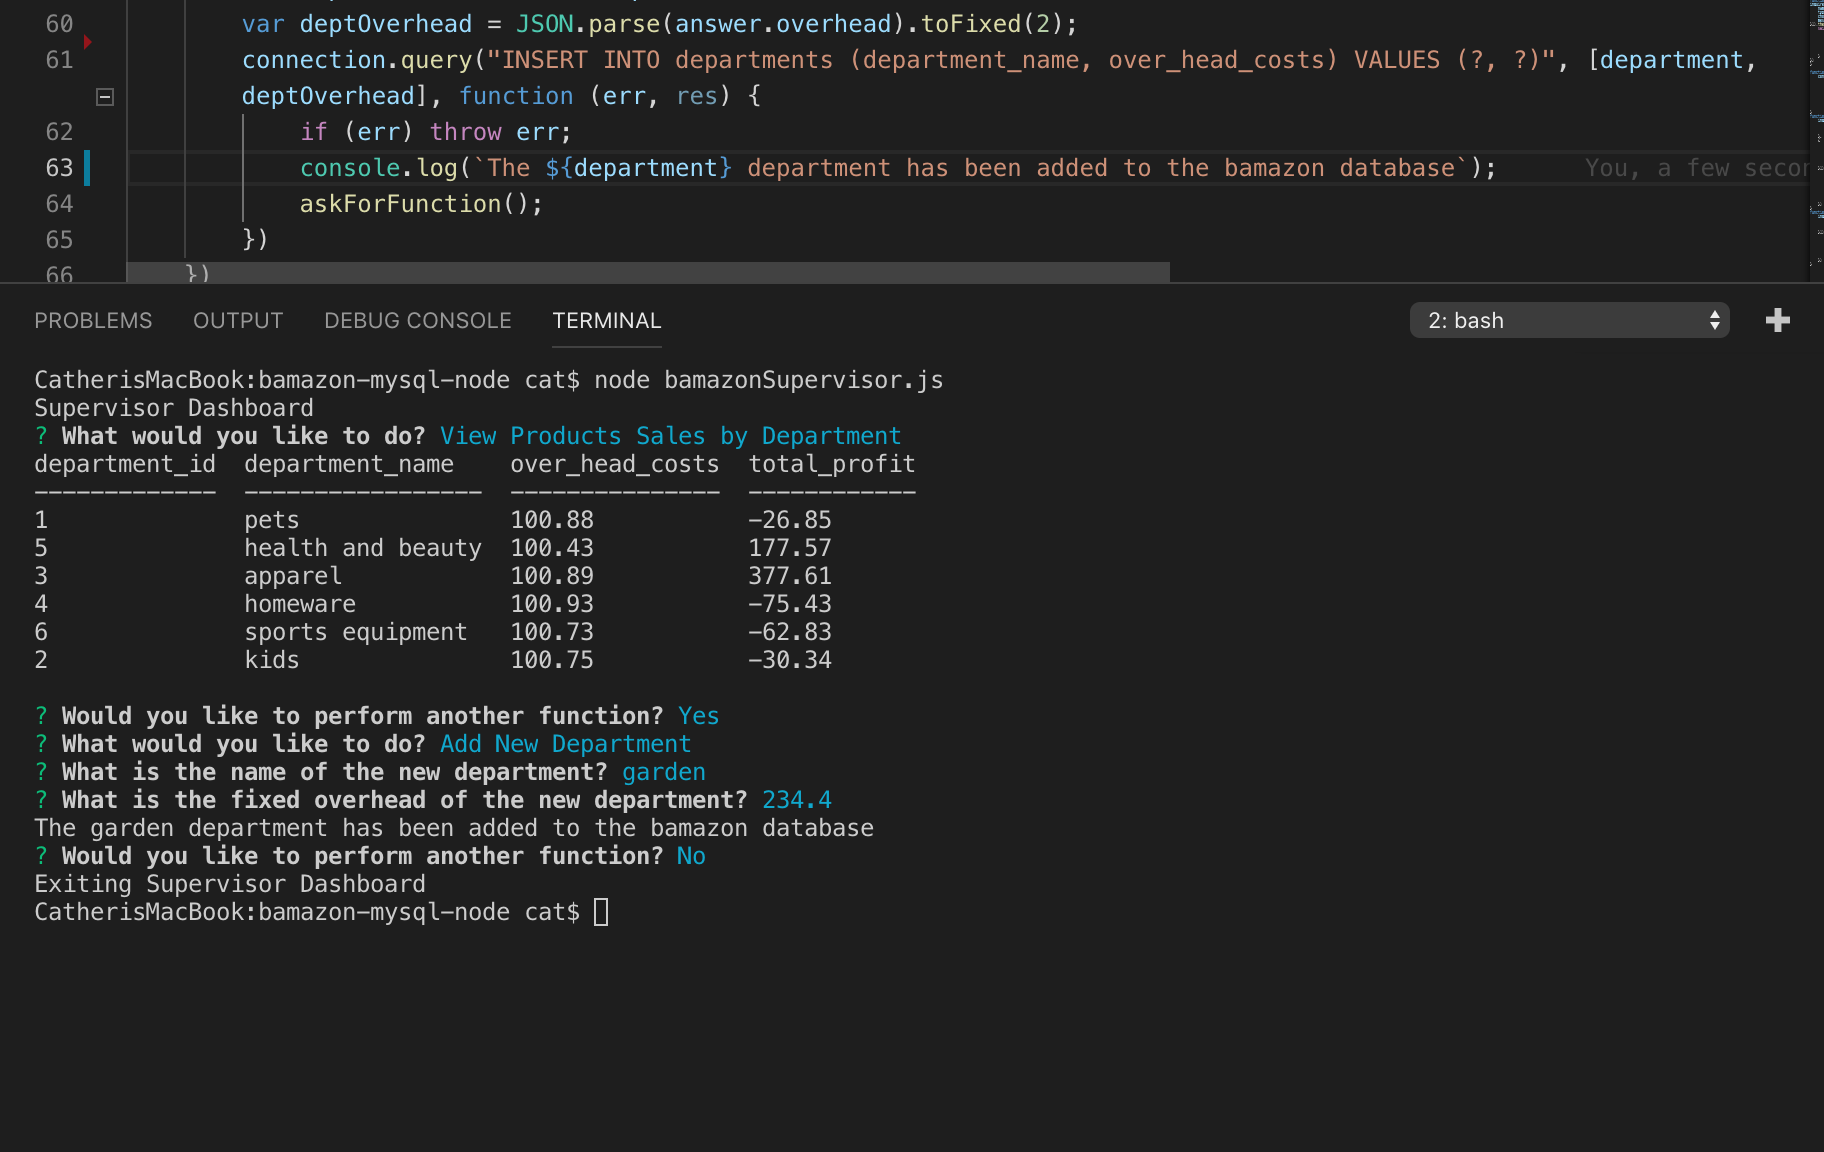
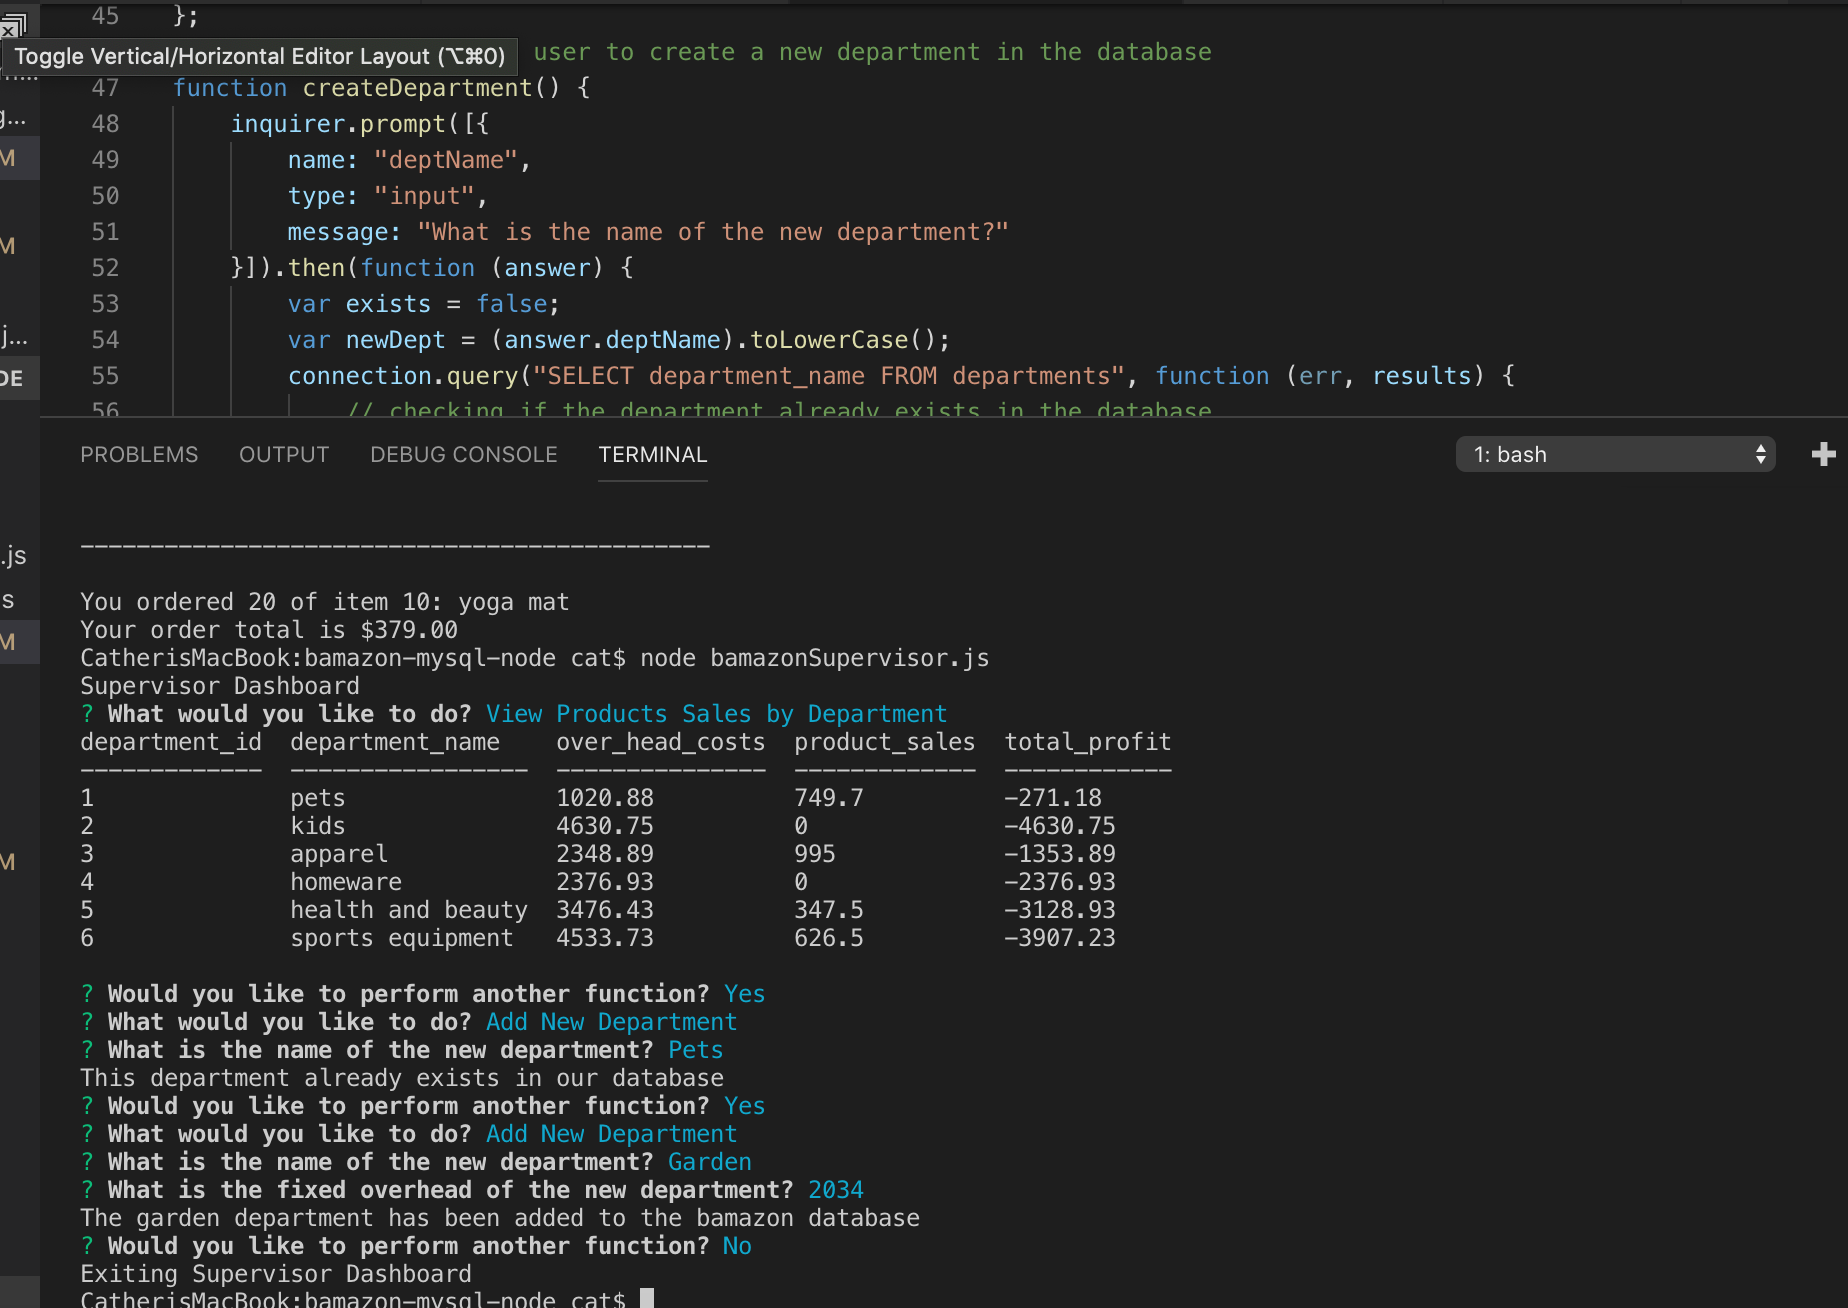
small edits from testing

Changed region(s): [[0.0, 0.0, 0.8125, 1.0], [0.75, 0.25, 1.0, 0.375], [0.875, 0.0312, 0.9688, 0.0625]]

diff --git a/bamazonSupervisor.js b/bamazonSupervisor.js
@@ -36,7 +36,7 @@ function SupervisorFunctions() {
 };
 // function that displays product sales by department using an alias and inner join between two db tables
 function displayProductSales() {
-    var aliasTableQuery = "SELECT departments.department_id, departments.department_name, departments.over_head_costs, COALESCE(SUM(products.product_sales), 0) AS product_sales, COALESCE(SUM(products.product_sales), 0) - departments.over_head_costs AS total_profit FROM departments LEFT JOIN products ON departments.department_name = products.department_name GROUP BY departments.department_id ORDER BY departments.department_name"
+    var aliasTableQuery = "SELECT departments.department_id, departments.department_name, departments.over_head_costs, COALESCE(SUM(products.product_sales), 0) AS product_sales, COALESCE(SUM(products.product_sales), 0) - departments.over_head_costs AS total_profit FROM departments LEFT JOIN products ON departments.department_name = products.department_name GROUP BY departments.department_id ORDER BY departments.department_id"
     connection.query(aliasTableQuery, function (err, res) {
         if (err) throw err;
         console.table(res);
